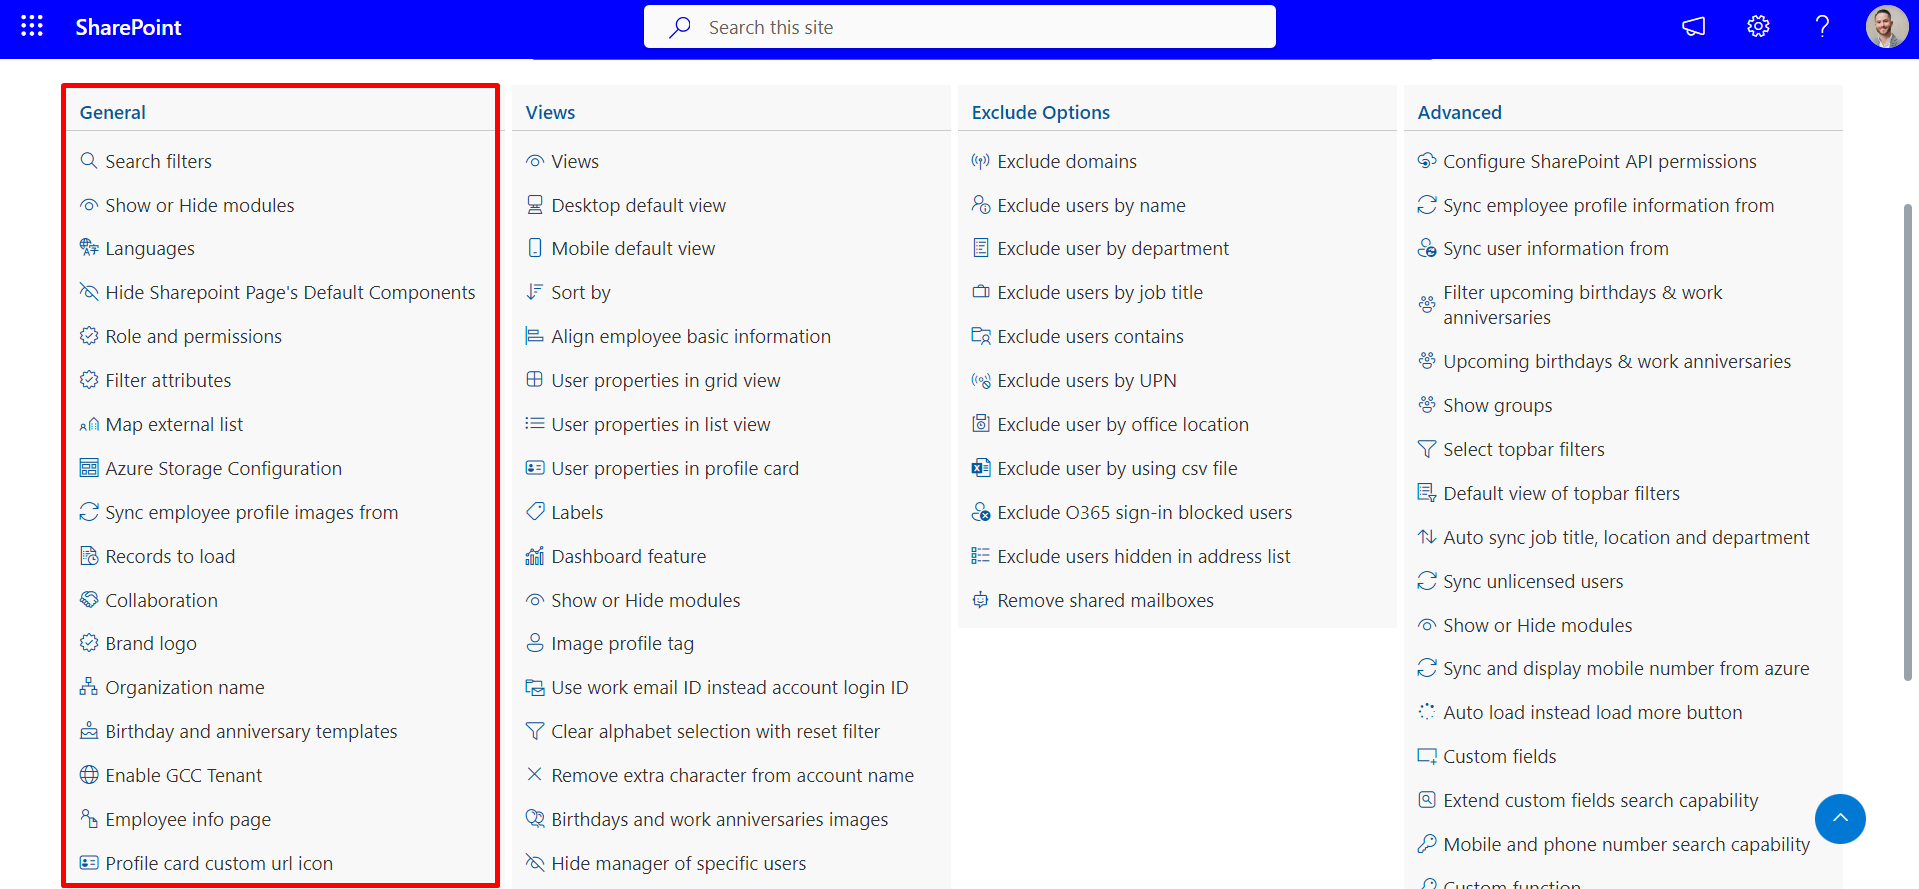
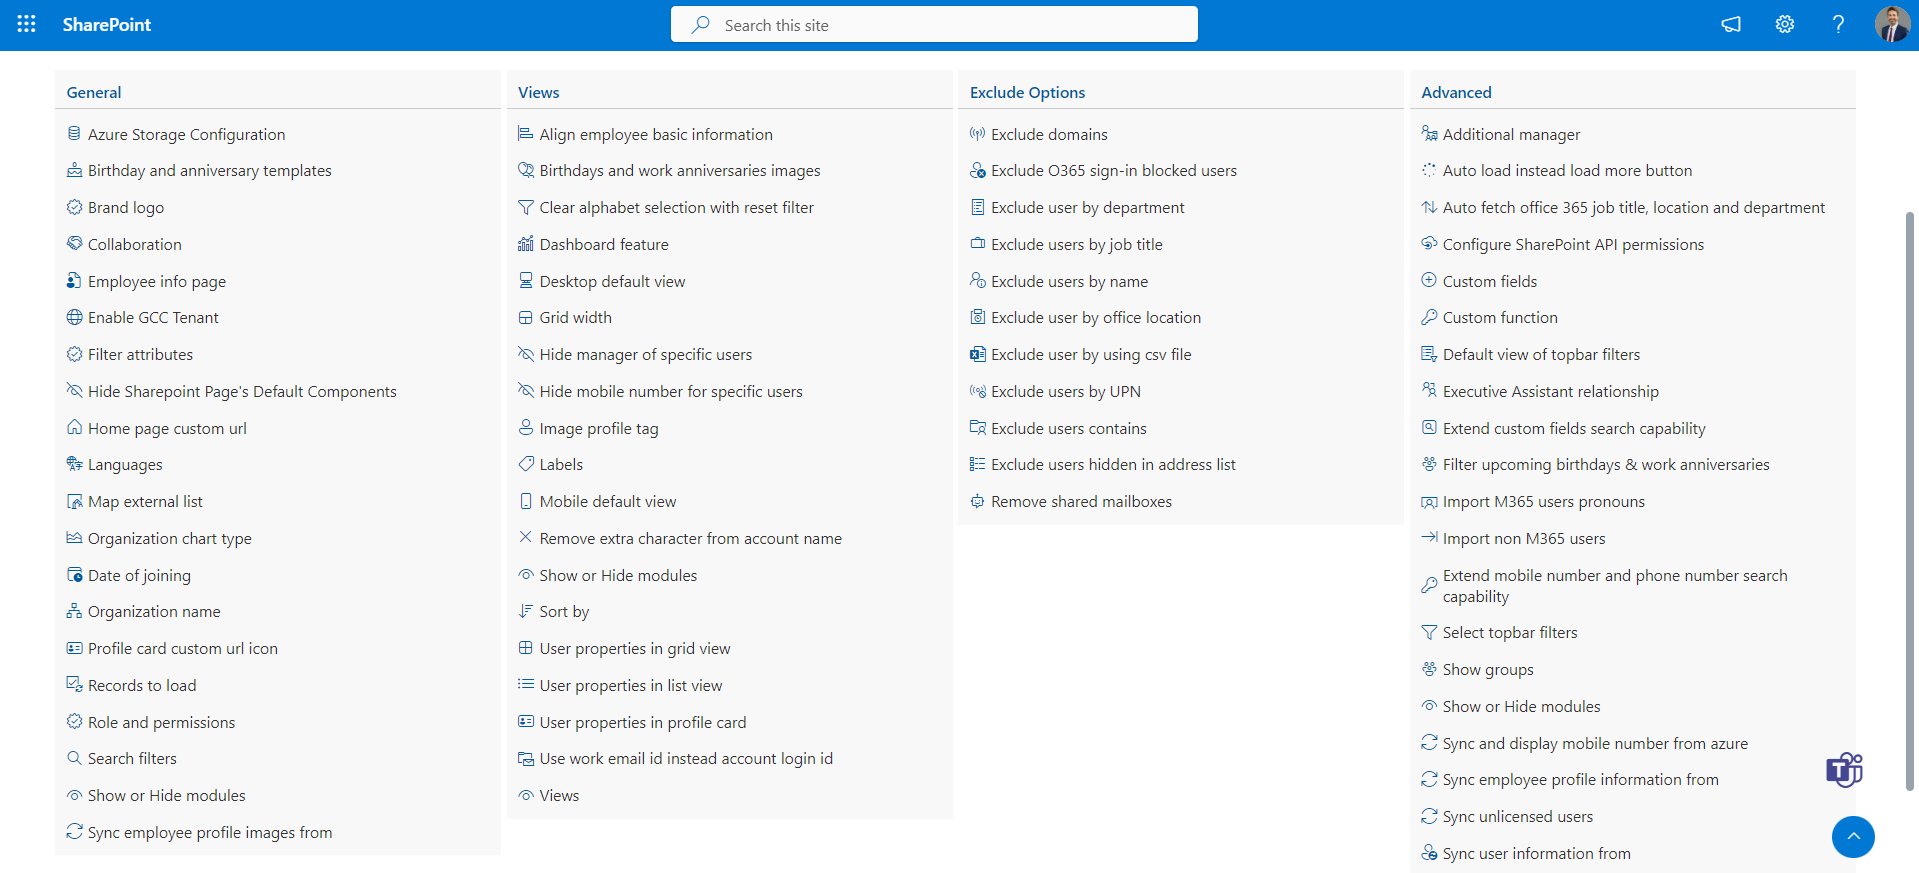
Ed complete

Changed region(s): [[0.0, 0.0, 1.0, 1.0], [0.7379, 0.2165, 1.0, 1.0], [0.4919, 0.6186, 0.6764, 0.6804]]

diff --git a/sharepoint-employee-directory/modern/admin/settings/exclude-options/index.html b/sharepoint-employee-directory/modern/admin/settings/exclude-options/index.html
@@ -109,7 +109,7 @@
                 <div><img src="01.png" onclick="openModal('01.png')" alt="Exclude" width="100%" height="auto">
                 </div>
                 <br>
-             
+
                 <ul class="ul_li_styles">
                   <li>For individual users, use exclude users by <b>name</b>.</li>
 
@@ -135,40 +135,129 @@
               </ul>
               <p> To exclude, click on the link or dropdown as shown below. If you click on the dropdown, select the
                 data. If you click on the link, the excluded list will display. Enter the field.
-              <div><img src="02.png" onclick="openModal('02.png')" alt="excluded list" width="100%"
-                  height="auto"></div>
+              <div><img src="02.png" onclick="openModal('02.png')" alt="excluded list" width="100%" height="auto"></div>
               <br>
-             
-
               </p>
               <br>
               <p>
-                <h6>Exclude Users By UPN</h6> Users can be exclude with the UPN (User Principal Name) to exclude only
-                selected user
+              <h6>Exclude O365 sign-in blocked users</h6>
+              To enable this setting, please visit this <a
+                href="https://bitzap-admin.sharepoint.com/_layouts/15/online/AdminHome.aspx#/webApiPermissionManagement">Link</a>
+              to learn how to activate the SharePoint API.
               </p>
               <br><br>
-              <div><img src="03.png" onclick="openModal('03.png')" alt="excluded user by UPN"
-                  width="100%" height="auto"></div>
+              <div><img src="04.png" onclick="openModal('04.png')" alt="excluded user by UPN" width="100%"
+                  height="auto"></div>
             </div>
-            <!-- <p><h6>Exclude User List</h6> Select the checkbox and click the <b>Include</b> button for include the user again.</p>
-            <br>
-            <br>
-              <div><img src="excludedUserList.png" onclick="openModal('excludedUserList.png')" alt="excluded user list"
-                  width="100%" height="auto"></div>
-                  <br>
-            </div> -->
 
+            <br>
+            <p>
+            <h6>Exclude user by department</h6>
 
-            <p class="post-meta border-bottom pb-3 mb-0 mt-3" id="date">
-            <nav class="pagination mt-3">
-              <a class="nav nav-prev" href="../general/" aria-label="Previous page"><i class="ti-arrow-left mr-2"></i>
-                <span class="d-none d-md-block">General</span></a>
-              <a class="nav nav-next" href="../views/" aria-label="Previous page"> <span
-                  class="d-none d-md-block">Views</span><i class="ti-arrow-right ml-2"></i></a>
-            </nav>
+            You can exclude users by department by selecting the department from the dropdown menu.
+            </p>
+            <br><br>
+            <div><img src="05.png" onclick="openModal('05.png')" alt="excluded user by UPN" width="100%" height="auto">
+            </div>
           </div>
+
+          <br>
+          <p>
+          <h6>Exclude users by job title</h6>
+          You can exclude users by Job title by selecting the job title from the dropdown menu.
+          </p>
+          <br><br>
+          <div><img src="06.png" onclick="openModal('06.png')" alt="excluded user by UPN" width="100%" height="auto">
+          </div>
+          <br>
+          <p>
+          <h6>Exclude users by Name</h6>
+          To maintain the query length restriction imposed by Microsoft for excluding users by username, limit the user
+          list to 50 and utilize other exclusion queries such as department, title, location, or user contains for the
+          remaining users.
+          </p>
+          <br><br>
+          <div><img src="07.png" onclick="openModal('07.png')" alt="excluded user by UPN" width="100%" height="auto">
+          </div>
+
+          <br>
+          <p>
+          <h6>Exclude user by office location</h6>
+          You can exclude users by office location by selecting the office location from the dropdown menu.
+          </p>
+          <br><br>
+          <div><img src="06.png" onclick="openModal('06.png')" alt="excluded user by UPN" width="100%" height="auto">
+          </div>
+
+          <br>
+          <p>
+          <h6>Exclude user by using csv file</h6>
+          You can exclude users by uploading a CSV file. Simply click on the "Upload" button to select and upload the
+          CSV file.
+          </p>
+          <br><br>
+          <div><img src="07.png" onclick="openModal('07.png')" alt="excluded user by UPN" width="100%" height="auto">
+          </div>
+
+          <br>
+          <p>
+          <h6>Exclude Users By UPN</h6> Users can be exclude with the UPN (User Principal Name) to exclude only
+          selected user
+          </p>
+          <br><br>
+          <div><img src="03.png" onclick="openModal('03.png')" alt="excluded user by UPN" width="100%" height="auto">
+          </div>
+
+          <br>
+          <p>
+          <h6>Exclude user by contain</h6>
+          You can exclude users by name, entering up to 3 characters.
+          </p>
+          <br><br>
+          <div><img src="08.png" onclick="openModal('08.png')" alt="excluded user by UPN" width="100%" height="auto">
+          </div>
+
+          <br>
+          <p>
+          <h6>Exclude users hidden in address list</h6>
+
+          To exclude hidden users from the address list, ensure that the SharePoint API is enabled. Please visit <a
+            href="https://bitzap-admin.sharepoint.com/_layouts/15/online/AdminHome.aspx#/webApiPermissionManagement">here</a>
+          to
+          learn how to enable this feature.
+          </p>
+          <br><br>
+          <div><img src="09.png" onclick="openModal('09.png')" alt="excluded user by UPN" width="100%" height="auto">
+          </div>
+
+          <br>
+          <p>
+          <h6>Remove shared mailboxes</h6>
+
+
+          Click this <a href="https://employeedirectory.hr365online.com/">Link</a> to access Cubic Logics's tool for removing shared mailbox users.
+          </p>
+          <br><br>
+          <div><img src="10.png" onclick="openModal('10.png')" alt="excluded user by UPN" width="100%" height="auto">
+          </div>
+
+
         </div>
+
       </div>
+   
+
+
+      <p class="post-meta border-bottom pb-3 mb-0 mt-3" id="date">
+      <nav class="pagination mt-3">
+        <a class="nav nav-prev" href="../views/" aria-label="Previous page"><i class="ti-arrow-left mr-2"></i>
+          <span class="d-none d-md-block">View</span></a>
+        <a class="nav nav-next" href="../advanced/" aria-label="Previous page"> <span
+            class="d-none d-md-block">Advance</span><i class="ti-arrow-right ml-2"></i></a>
+      </nav>
+    </div>
+    </div>
+    </div>
     </div>
   </section>
   <div id="myModal" class="modal">

diff --git a/sharepoint-employee-directory/modern/release-note/index.html b/sharepoint-employee-directory/modern/release-note/index.html
@@ -85,7 +85,12 @@
                                     Release Notes
                                 </a>
                                 <ul>
-                                  
+                                    <li data-nav-id=../../../Getting-started/installation/using-app-file/app-file.html
+                                    title=24.130.1602.0 class="sidelist versiononclick">
+                                    <a href="#releasenot33">
+                                        Version 24.0222.2250.0000
+                                    </a>
+                                </li>
                                     <li data-nav-id=../../../Getting-started/installation/using-app-file/app-file.html
                                         title=24.130.1602.0 class="sidelist versiononclick">
                                         <a href="#releasenot32">
@@ -301,7 +306,71 @@
                 </div>
                 <div class="mar-0px-auto col-lg-9" style="margin: 0px auto">
                     <div class="p-lg-4 p-4 remove-padding bg-white" id=content>
-                      
+
+                        <div class="bg-light p-4 remove-padding releasenotepadding" id="releasenote33">
+                            <li data-nav-id=.../Getting-started/installation/using-app-file title='Release Note'
+                                class="sidelist">
+                                <h3 id="_dashboards"><a class="header-icon-link highlight" href="#">Release Note<i
+                                            class="fas fa-link" style="font-size:12px; color:lightgray;"></i></a> </h3>
+                                <p> Version 24.0222.2250.0000 &nbsp&nbsp&nbsp&nbsp&nbsp&nbsp Released 23-Feb-2024</p>
+
+
+                                <div>
+                                    <div contenteditable="false" class="sc-gzcbmu bbnSRJ">
+                                        <div class="sc-gkCoMD enpFfZ">
+                                            <div class="sc-flUlpA dOsSOW"><span class="sc-iwajpm kydRHc"><span
+                                                        class="sc-cxNHIi fHUQtx" style="display: inline-flex;"><span
+                                                            class="sc-ksluID iQRQtT sc-fWWYYk MyLsF Icon--kipico--DOaJIfpG Icon--link--xiwyJfW7"></span></span></span><span
+                                                    class="sc-iwajpm kydRHc"><span class="sc-cxNHIi fHUQtx"
+                                                        style="display: inline-flex;"><span
+                                                            class="sc-ksluID iQRQtT sc-fWWYYk MyLsF Icon--kipico--DOaJIfpG Icon--copy--s6HZTBER"></span></span></span>
+                                            </div>
+                                        </div>
+                                    </div>
+                                    <h3 id="_dashboards"><a class="header-icon-link highlight" href="#">Release Note<i
+                                                class="fas fa-link" style="font-size:12px; color:lightgray;"></i></a>
+                                    </h3>
+                                    <p> Version 23.1122.1600.0000 &nbsp&nbsp&nbsp&nbsp&nbsp&nbsp Released 22-Nov-2023
+                                    </p>
+
+
+                                    <div>
+                                        <div contenteditable="false" class="sc-gzcbmu bbnSRJ">
+                                            <div class="sc-gkCoMD enpFfZ">
+                                                <div class="sc-flUlpA dOsSOW"><span class="sc-iwajpm kydRHc"><span
+                                                            class="sc-cxNHIi fHUQtx" style="display: inline-flex;"><span
+                                                                class="sc-ksluID iQRQtT sc-fWWYYk MyLsF Icon--kipico--DOaJIfpG Icon--link--xiwyJfW7"></span></span></span><span
+                                                        class="sc-iwajpm kydRHc"><span class="sc-cxNHIi fHUQtx"
+                                                            style="display: inline-flex;"><span
+                                                                class="sc-ksluID iQRQtT sc-fWWYYk MyLsF Icon--kipico--DOaJIfpG Icon--copy--s6HZTBER"></span></span></span>
+                                                </div>
+                                            </div>
+                                        </div>
+                                        <h3 id="49409fa4" class="sc-jtiXyc YVppW"><span data-key="8"><span
+                                                    data-offset-key="8:0">🚀 What's New </span></span></h3>
+                                    </div>
+                                    <ol>
+                                        <b>New + Improvements</b>
+                                       <li> Introduced an option to display birthdays and anniversaries for the upcoming month</li>
+                                       
+                                    </ol>
+                                    <h3 id="49409fa4" class="sc-jtiXyc YVppW"><span data-key="8"><span
+                                        data-offset-key="8:0">🔧 Bug Fixes </span></span></h3>
+                        </div>
+                        <ol>
+                            
+                          <li>Added a placeholder in the settings for a search field.</li>
+                          <li>Fixed the dropdown issue on the employee info page.</li>
+                          <li>Addressed the problem where executive assistance relation wasn't coming through the SharePoint API.</li>
+                          <li>Resolved the issue where the option to hide/show fields in the list view column wasn't working.</li>
+                           
+                        </ol>
+                                </div>
+                            </li>
+                            </li>
+                            </ul>
+                        </div>
+
 
                         <div class="bg-light p-4 remove-padding releasenotepadding" id="releasenote32">
                             <li data-nav-id=.../Getting-started/installation/using-app-file title='Release Note'

diff --git a/sharepoint-employee-directory/modern/admin/settings/advanced/index.html b/sharepoint-employee-directory/modern/admin/settings/advanced/index.html
@@ -1,5 +1,6 @@
 <!doctype html>
 <html lang=en-us>
+
 <head>
   <meta charset=utf-8>
   <title>Employee Directory 365 | Settings | Advanced</title>
@@ -44,6 +45,7 @@
   <meta name=twitter:title content="Employee Directory">
   <meta name=twitter:description content="Employee directory">
 </head>
+
 <body>
   <header class="shadow-bottom sticky-top bg-white">
     <nav class="navbar navbar-expand-lg navbar-light">
@@ -86,7 +88,7 @@
             </li>
             </ul>
           </div>
-        </div>                                                                                                                                                  
+        </div>
         <div class=col-lg-9>
           <div class="p-lg-4 p-4 remove-padding bg-white" id=content>
             <div class="bg-light p-4 remove-padding">
@@ -104,8 +106,8 @@
               </ul>
             </div>
             <ol>
-              <li>                                                            
-                  Additional manager</b>
+              <li>
+                Additional manager</b>
               </li>
               <div><img src="2.png" onclick="openModal('2.png')" alt="Advanced" width="100%" height="auto">
               </div>
@@ -117,8 +119,8 @@
               <div><img src="3.png" onclick="openModal('3.png')" alt="Advanced" width="100%" height="auto">
               </div>
               <br>
-              <li><b>  
-                  Sync job title, location and department</b>: <br>
+              <li><b>
+                  Auto fetch office 365 job title, location and department</b>: <br>
                 This feature can automatically retrieve job titles, locations, and departments from Office 365.
               </li>
               <div><img src="4.png" onclick="openModal('4.png')" alt="Advanced" width="100%" height="auto">
@@ -140,7 +142,7 @@
               <li><b>Default view of topbar filters</b></li>
               <div><img src="8.png" onclick="openModal('8.png')" alt="Advanced" width="100%" height="auto">
               </div>
-              <br>                     
+              <br>
               <li><b>Executive Assistant relationship:</b> <br>
                 To establish the association between executives and their assistants, a custom column can be utilized to
                 include the assistant's email ID. After defining the custom column, access each executive's mailbox via
@@ -159,7 +161,7 @@
                 birthdays and work anniversaries by the current day, current week, or current month.
               </li>
               <div><img src="11.png" onclick="openModal('11.png')" alt="Advanced" width="100%" height="auto">
-              </div><br>                                      
+              </div><br>
               <li><b>Import non M365 users</b>: <br>
                 This feature allows you to import non-Microsoft 365 users.
                 Before importing non-Office 365 users, please ensure to read the instructions provided below.
@@ -193,6 +195,15 @@
               </div><br>
               <li><b>Sync user information from</b></li>
               <div><img src="20.png" onclick="openModal('20.png')" alt="Advanced" width="100%" height="auto">
+              </div><br>
+              <li><b>Upcoming birthdays & work anniversaries</b></li>
+              <div><img src="21.png" onclick="openModal('21.png')" alt="Advanced" width="100%" height="auto">
+              </div><br>
+              <li><b>Validate work email with SharePoint account name</b>
+                Enable this setting to validate the work email with the SharePoint account name. Note that enabling this
+                setting may increase the page load time of the application, so use it judiciously.
+              </li>
+              <div><img src="22.png" onclick="openModal('22.png')" alt="Advanced" width="100%" height="auto">
               </div><br>
             </ol>
             <p class="post-meta border-bottom pb-3 mb-0 mt-3" id="date">

diff --git a/sharepoint-employee-directory/modern/admin/settings/general/index.html b/sharepoint-employee-directory/modern/admin/settings/general/index.html
@@ -391,6 +391,21 @@
                                 </p>
 
                         </div>
+                        <div class="bg-light p-4 remove-padding common-scroll" id="dateofjoin">
+                            <ul class=page-list>
+                                <h2 id="_dashboards"><a class="header-icon-link highlight" href=#>Date of Joining
+                                        type
+                                        <i class="fas fa-link" style="font-size:12px; color:lightgray;"></i></a>
+                                </h2>
+                                <p>
+                                    When this toggle is enabled, pull the date of joining from Azure. Otherwise,
+                                    retrieve it from SharePoint Online.
+                                <div><img src="join.png" onclick="openModal('join.png')" alt="Search filters"
+                                        width="100%" height="auto"></div>
+
+                                </p>
+
+                        </div>
                         <div class="bg-light p-4 remove-padding common-scroll" id="Organizationname">
                             <ul class=page-list>
                                 <h2 id="_dashboards"><a class="header-icon-link highlight" href=#>

diff --git a/contract-management/modern/getting-started/installation/microsoft-teams/index.html b/contract-management/modern/getting-started/installation/microsoft-teams/index.html
@@ -45,7 +45,6 @@
     <meta name=twitter:title content="Performance Management">
     <meta name=twitter:description content="Performance Management">
 </head>
-
 <body>
     <header class="shadow-bottom sticky-top bg-white">
         <nav class="navbar navbar-expand-lg navbar-light">
@@ -60,9 +59,7 @@
             <path d="M4.646 4.646a.5.5 0 0 1 .708 0L8 7.293l2.646-2.647a.5.5 0 0 1 .708.708L8.707 8l2.647 2.646a.5.5 0 0 1-.708.708L8 8.707l-2.646 2.647a.5.5 0 0 1-.708-.708L7.293 8 4.646 5.354a.5.5 0 0 1 0-.708z"/>
           </svg>
                 </button>
-                <div class="collapse navbar-collapse text-center common-header" id=navigation>
-                  
-                     
+                <div class="collapse navbar-collapse text-center common-header" id=navigation>     
                 </div>
             </div>
         </nav>
